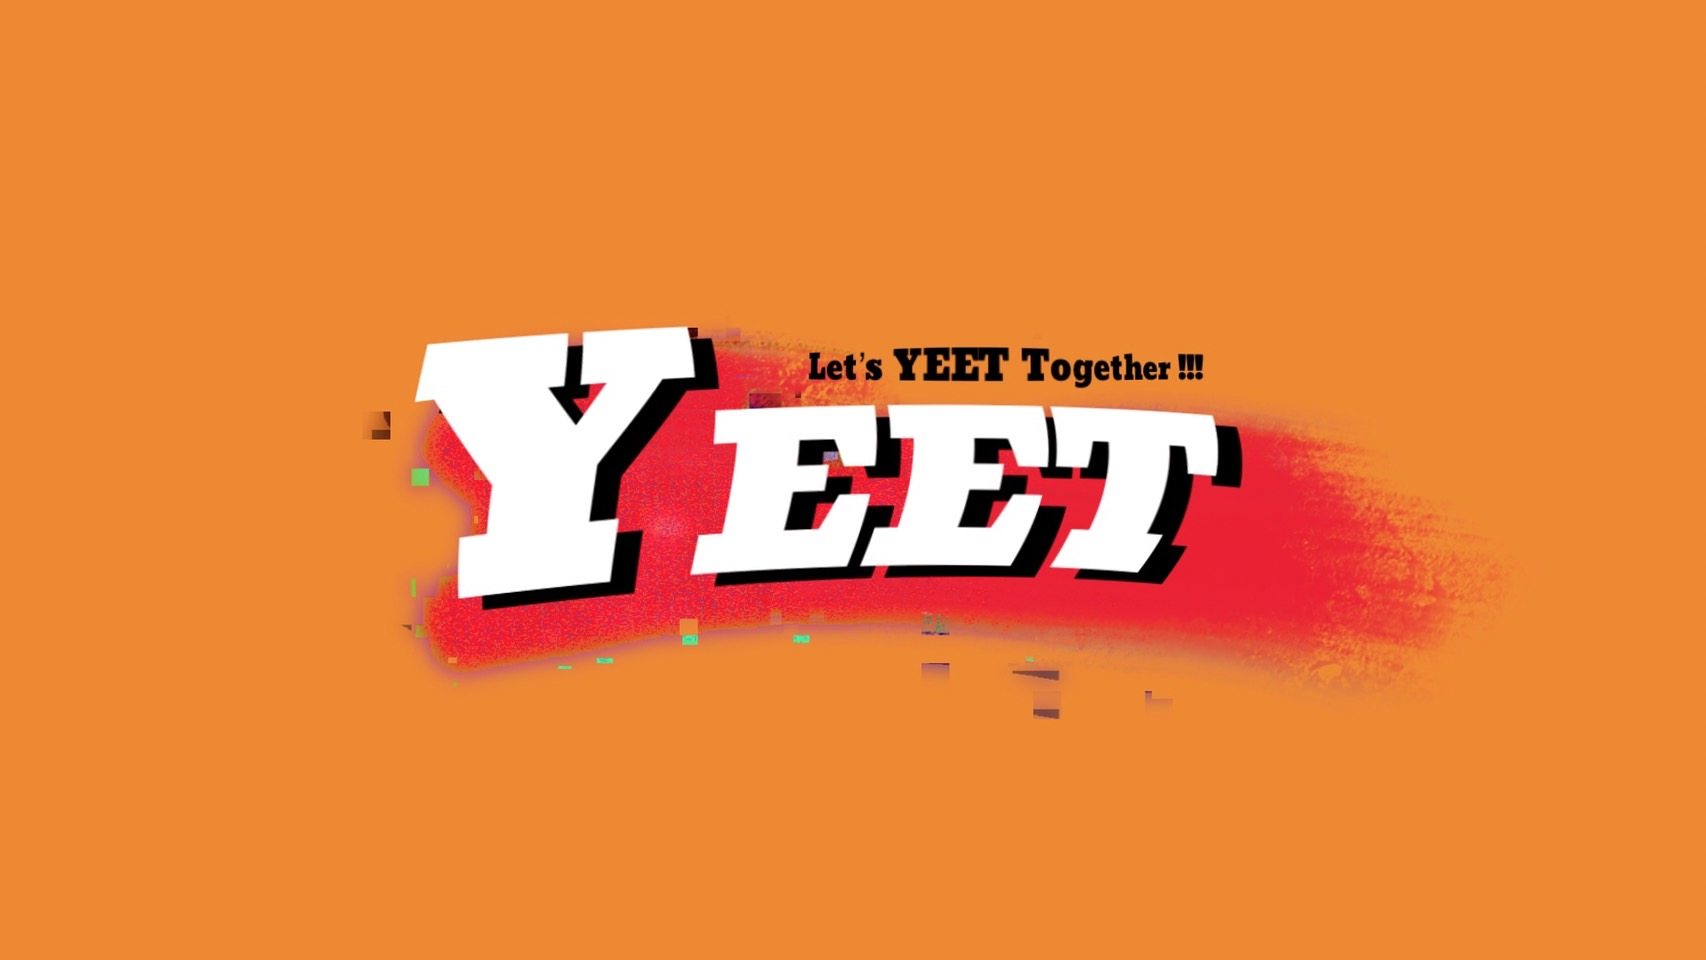
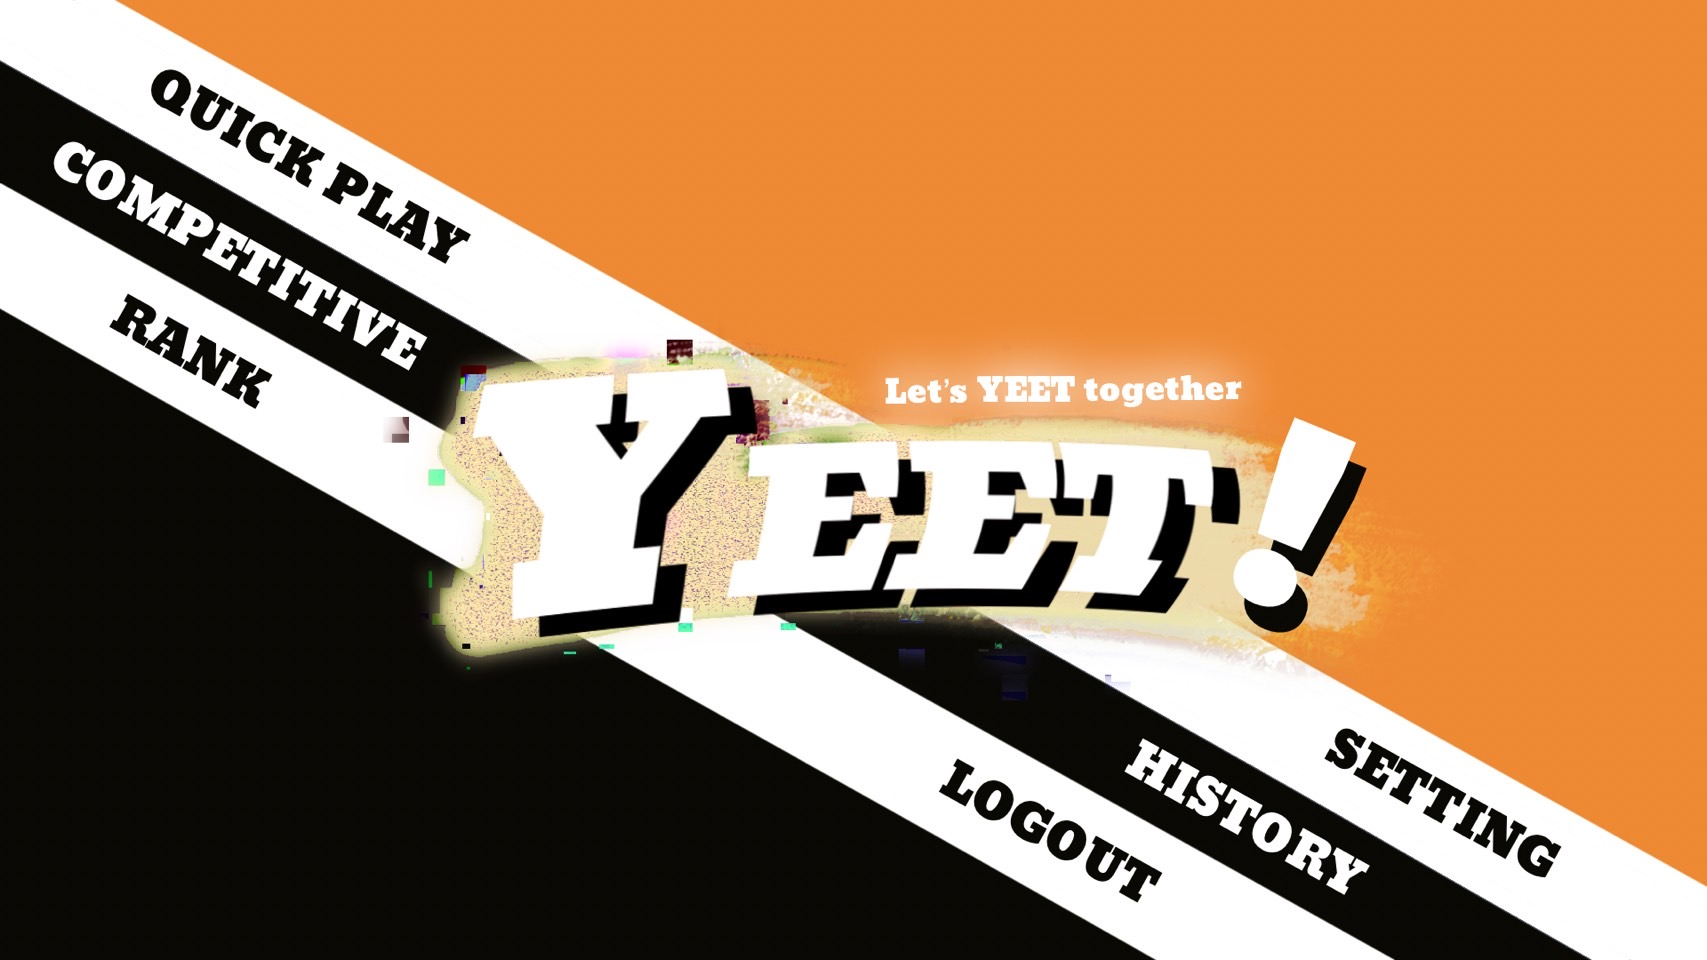
improve template

diff --git a/yeet_frontend/src/components/Auth.jsx b/yeet_frontend/src/components/Auth.jsx
@@ -5,26 +5,29 @@ import axios from 'axios';
 
 const Auth = () => {
   const [inputs, setInputs] = useState({});
-  
-  async function register(event){
-    event.preventDefault();
-    await axios.post(`/api/v2/register`, this.dataRegisterForm)
-            .then(response => {
-            this.login(response.data);
-            })
-            .catch(error => {
-            console.log(error)
-        })
-  }
+  const [isLogin, setIsLogin] = useState(true)
 
-  async function login(data){
-    let token = data.token
-    this.$store.commit('setToken', token)
-    axios.defaults.headers.common["Authorization"] = "Token " + token
-    localStorage.setItem("token", token)
-    this.slug = data.calendar.slug
-    this.$router.push({ path: `/yeet/${this.slug}`})
-  }
+  const toggle = () => setIsLogin(!isLogin)
+  
+  // async function register(event){
+  //   event.preventDefault();
+  //   await axios.post(`/api/v2/register`, this.dataRegisterForm)
+  //           .then(response => {
+  //           this.login(response.data);
+  //           })
+  //           .catch(error => {
+  //           console.log(error)
+  //       })
+  // }
+
+  // async function login(data){
+  //   let token = data.token
+  //   this.$store.commit('setToken', token)
+  //   axios.defaults.headers.common["Authorization"] = "Token " + token
+  //   localStorage.setItem("token", token)
+  //   this.slug = data.calendar.slug
+  //   this.$router.push({ path: `/yeet/${this.slug}`})
+  // }
 
   const handleChange = (event) => {
     const name = event.target.name;
@@ -46,45 +49,51 @@ const Auth = () => {
 
   return (
     <div>
-      <h1>ID Please</h1>
-      <form onSubmit={handleLogin}>
-        <input 
-          type="text" 
-          name="username" 
-          placeholder="Yeet Name"
-          value={inputs.username || ""} 
-          onChange={handleChange}
-        />
-        <input 
-          type="password" 
-          name="password" 
-          placeholder="password"
-          value={inputs.password || ""} 
-          onChange={handleChange}
-        />
-        <input type="submit" />
-      </form>
-      New to Yeet?<button>SIGN UP</button>
-
-      <h1>Create your Yeet ID</h1>
-      <form onSubmit={handleSignIn}>
-        <input 
-          type="text" 
-          name="username" 
-          placeholder="Yeet Name"
-          value={inputs.username || ""} 
-          onChange={handleChange}
-        />
-        <input 
-          type="password" 
-          name="password" 
-          placeholder="password"
-          value={inputs.password || ""} 
-          onChange={handleChange}
-        />
-        <input type="submit" />
-      </form>
-      Already have one?<button>LOG IN</button>
+      {isLogin ? 
+      <div>
+        <h1>ID Please</h1>
+        <form onSubmit={handleLogin}>
+          <input 
+            type="text" 
+            name="username" 
+            placeholder="Yeet Name"
+            value={inputs.username || ""} 
+            onChange={handleChange}
+          />
+          <input 
+            type="password" 
+            name="password" 
+            placeholder="password"
+            value={inputs.password || ""} 
+            onChange={handleChange}
+          />
+          <button>LOG IN</button>
+        </form>
+        New to Yeet?<button onClick={toggle}>SIGN UP</button>
+      </div>
+      :
+      <div>
+        <h1>Create your Yeet ID</h1>
+        <form onSubmit={handleSignIn}>
+          <input 
+            type="text" 
+            name="username" 
+            placeholder="Yeet Name"
+            value={inputs.username || ""} 
+            onChange={handleChange}
+          />
+          <input 
+            type="password" 
+            name="password" 
+            placeholder="password"
+            value={inputs.password || ""} 
+            onChange={handleChange}
+          />
+          <button>SIGN UP</button>
+        </form>
+        Already have one?<button onClick={toggle}>LOG IN</button>
+      </div>
+      }
       <Link to={'/yeet'} state={'anonymous'}>Yeet anonymously?</Link>
     </div>
   );

diff --git a/yeet_frontend/src/components/Play.jsx b/yeet_frontend/src/components/Play.jsx
@@ -1,10 +1,12 @@
 import React, { useEffect, useState } from 'react';
-import { useLocation } from 'react-router-dom';
+import { Navigate, useLocation } from 'react-router-dom';
 
 const Play = () => {
   const playerScore = null
+  const ready = false
   const location = useLocation()
   const [score, setScore] = useState()
+  let [timeDelay, setTimeDelay] = useState(5)
   // console.log(location.state)
 
   useEffect(() => {
@@ -27,6 +29,13 @@ const Play = () => {
     }
   }, []);
 
+  useEffect(() => {
+    const interval = setInterval(() => {
+      setTimeDelay(timeDelay-=1)
+      return () => clearInterval(interval);
+    }, 1000);
+  }, []);
+
   function randomNum(min, max) {
     return Math.floor(Math.random() * (max - min)) + min;
   }
@@ -35,7 +44,20 @@ const Play = () => {
     <div>
       <h1>Play</h1>
       <h1>{location.state}</h1>
-      { playerScore === null ? <h1>{ score }</h1> : <h1>{ playerScore }</h1> }
+      {timeDelay > 0 ? <h2>{timeDelay}</h2> : <h1>GO!</h1>}
+
+      {/* score display */}
+      {(playerScore === null && ready && timeDelay < -1) && <h1>{ score }</h1>}
+      {playerScore !== null && <h1>{ playerScore }</h1>}
+
+      {/* redirect to rank page */}
+      {(playerScore !== null && location.state === "Competitive" && timeDelay < -8) && <Navigate to={'/rank'} state={'rank'} />}
+      {/* redirect to main menu */}
+      {(playerScore !== null && location.state !== "Quick Play" && timeDelay < -8) && <Navigate to={'/yeet'} />}
+
+      {/* check error */}
+      {(playerScore === null && !ready  && timeDelay < -8) && <h1>Error, Please Yeet Again</h1>}
+      {(playerScore === null && !ready  && timeDelay < -10) && <Navigate to={'/yeet'} state={'James'} />}
     </div>
   );
 }

diff --git a/yeet_frontend/src/components/Profile.jsx b/yeet_frontend/src/components/Profile.jsx
@@ -1,13 +1,58 @@
-import React from 'react';
+import React, { useState } from 'react';
 import { useLocation } from 'react-router-dom';
+import { Link } from 'react-router-dom';
 
 const Profile = () => {
   const location = useLocation()
   // console.log(location.state)
+  
+  const [inputs, setInputs] = useState({});
+
+  const handleChange = (event) => {
+    const name = event.target.name;
+    const value = event.target.value;
+    setInputs(values => ({...values, [name]: value}))
+  }
+
+  async function handleLogin(event) {
+    event.preventDefault();
+    console.log(inputs.username, inputs.password)
+    return window.location.reload();
+  }
+
   return (
     <div>
       <h1>Profile</h1>
       <h1>{location.state}</h1>
+      <h1>Yeet Name</h1>
+      <form onSubmit={handleLogin}>
+        <input 
+          type="text" 
+          name="username" 
+          placeholder="Yeet Name"
+          value={inputs.username || ""} 
+          onChange={handleChange}
+        />
+        <button>Change</button>
+      </form>
+      <h1>Yeet History</h1>
+      <table>
+        <thead>
+          <td>Time</td>
+          <td>Score</td>
+        </thead>
+        <tbody>
+          {/* {this.state.data.map(( listValue, index ) => {
+            return (
+              <tr key={index}>
+                <td>{listValue.id}</td>
+                <td>{listValue.title}</td>
+              </tr>
+            );
+          })} */}
+        </tbody>
+      </table>
+      <Link to={'/yeet'} state={'anonymous'}>Done</Link>
     </div>
   );
 }

diff --git a/yeet_frontend/src/components/AudioPlayer.jsx b/yeet_frontend/src/components/AudioPlayer.jsx
@@ -1,0 +1,36 @@
+import React, { useState, useEffect } from 'react'
+
+const useAudio = audioPath => {
+  const [audio] = useState(new Audio(audioPath))
+  const [playing, setPlaying] = useState(true)
+
+  const toggle = () => setPlaying(!playing)
+
+  useEffect(() => {
+      playing ? audio.play() : audio.mute()
+    },
+    [playing, audio]
+  )
+
+  useEffect(() => {
+    audio.addEventListener('ended', () => {
+      audio.currentTime = 0
+      audio.play()
+      setPlaying(true)
+    })
+  }, [audio])
+
+  return [playing, toggle]
+}
+
+const Player = ({ audioPath }) => {
+  const [playing, toggle] = useAudio(audioPath)
+
+  return (
+    <div>
+      <button onClick={toggle}>{playing ? 'Pause' : 'Play'}</button>
+    </div>
+  )
+}
+
+export default Player

diff --git a/yeet_frontend/src/components/Rank.jsx b/yeet_frontend/src/components/Rank.jsx
@@ -27,6 +27,22 @@ const Rank = () => {
       <h1>Rank</h1>
       {location.state}
       {rank}
+      <table>
+        <thead>
+          <td>Time</td>
+          <td>Score</td>
+        </thead>
+        <tbody>
+          {/* {this.state.data.map(( listValue, index ) => {
+            return (
+              <tr key={index}>
+                <td>{listValue.id}</td>
+                <td>{listValue.title}</td>
+              </tr>
+            );
+          })} */}
+        </tbody>
+      </table>
       <Link to={'/yeet'} state={'anonymous'}>Done</Link>
     </div>
   );

diff --git a/yeet_frontend/src/assets/style.css b/yeet_frontend/src/assets/style.css
@@ -1,0 +1,25 @@
+body {
+  /* background-color: orange; */
+  background-image: url("../../media/background/main_menu_bg.jpg");
+  /* background-size: cover; */
+  color: white;
+  font-family: Arial Rounded MT;
+  text-align: center;
+  height: 1080px;
+  width: 1920px;
+  overflow: hidden;
+}
+
+.main-menu :link {
+  text-decoration: none;
+  color: black;
+  font-size: 50px;
+  font-weight: bold;
+}
+.main-menu :hover {
+  color: white;
+  text-shadow: 2px 2px yellow, 4px 4px red;
+}
+.main-menu :visited {
+  color: black;
+}
